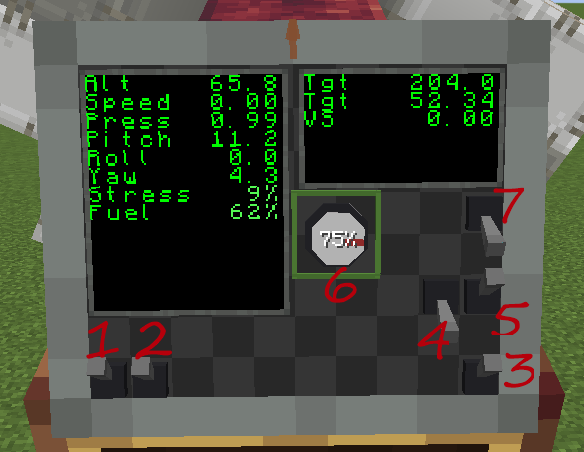
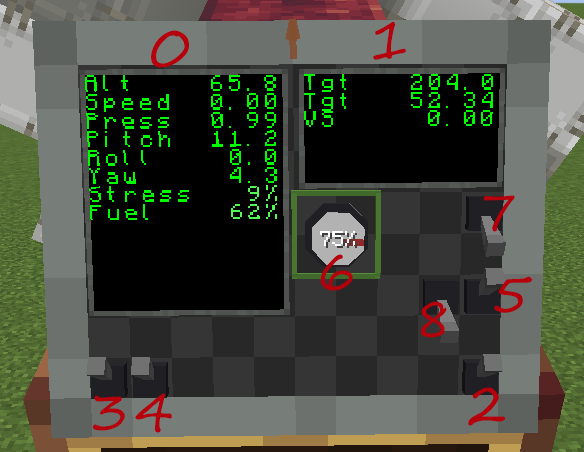
12313

diff --git a/wiki/docs/examples/trainer_aircraft.zh.md b/wiki/docs/examples/trainer_aircraft.zh.md
@@ -1,53 +1,110 @@
 # 示例 - 教练机
 
-[存档](https://github.com/ZombieEggStew/ccnavigationtable-template-1.21.1/blob/1.1.3/.design_guide/trainer%20aircraft.zip)
+> 一个完整的 CCPE 航电应用示例：可驾驶的固定翼教练机，集成了[传感器系统](../sensor-system/overview.zh.md)（静压孔 / 皮托管 / INS / FMC）、[模块化监视器](../monitor/overview.zh.md)（开关 / 旋钮 / 屏幕）、[控制台](../control-desk/overview.zh.md)（操纵杆 / 脚踏板 / 油门）与[航空轴承](../aero-bearing/overview.zh.md)舵面，并带俯仰阻尼、自动滚转、自动油门与高度保持。
 
-## 需求mod
+## [> 存档下载 <](https://github.com/ZombieEggStew/ccnavigationtable-template-1.21.1/blob/1.1.3/.design_guide/trainer%20aircraft.zip)
+
+
+
+## 需求 mod
+
 - CC:Tweaked
 - Create
 - Sable
 - Create: Aeronautics
 - Create: Diesel Generators
+- CCPE（本模组）
 
+自带控制程序：`trainer aircraft\computercraft\computer\0\startup.lua`（随存档放置，开机自动运行）。
 
-自带控制程序：trainer aircraft\computercraft\computer\0\startup.lua
+## 飞机设计要点
 
-控制面板如下图所示，图中：
+这架教练机的一切设计都围绕**简化**展开：
 
-- 1：屏幕开关
-- 2：航行灯开关
-- 3：引擎开关
-- 4：升降舵阻尼模式开关
-- 5：自动滚转模式开关
-- 6：高度设定旋钮
-- 7：自动油门模式开关
+- **简化传动**：飞机主体是一个**长棍子**，沿直线传递应力
+- **简化气动**：通过配平让**推力线过重心、升力中心与重心重合**——加减油门不产生俯仰力矩、平飞净力矩 ≈ 0，控制逻辑简单且行为可预测（游戏气动模型详见[飞行管理计算机](../sensor-system/fmc.zh.md)）。
+- **简化操纵**：全机只有**升降舵（俯仰）与副翼（滚转）两组舵面，没有方向舵**——偏航靠差速 / 侧滑即可，Lua 只需控制两个轴。
 
-左侧屏幕从上到下依次为：
-
-- Alt： 当前高度
-- Speed： 当前速度
-- Pitch： 俯仰角
-- Roll： 滚转角
-- Yaw： 偏航角
-- Stress: 已使用应力百分比
-- Fuel: 剩余燃料百分比
-
-右侧屏幕从上到下依次为：
-
-- Tgt：由高度设定旋钮设定的目标高度
-- Tgt：保持在目标高度需要的速度
-- VS：垂直速度
+## 控制面板
 
 ![monitor](../img/monitor_3.png)
 
+
+各控件对应的监视器**模块 ID**（供 Lua 脚本 `monitor.getModule(id)` 引用）：
+
+| 控件 | 模块 ID | 说明 |
+|---|---|---|
+| 屏幕（左） | 0 | 主飞行数据显示 |
+| 屏幕（右） | 1 | 高度保持数据显示 |
+| 引擎开关 | 2 | 控制发动机运转 / 停止 |
+| 屏幕开关 | 3 | 显示 / 隐藏屏幕 |
+| 航行灯开关 | 4 | 三色航行灯 |
+| 自动滚转开关 | 5 | 松杆自动改平（PD） |
+| 高度设定旋钮 | 6 | 目标高度（见下） |
+| 自动油门开关 | 7 | 空速保持 + 高度保持 |
+| 升降舵阻尼开关 | 8 | 俯仰人工阻尼（抑制 phugoid） |
+
+## 屏幕显示
+
+左侧屏幕（模块 ID 0）从上到下：
+
+- Alt：当前高度（m）
+- Speed：当前速度（m/s）
+- Press：当前气压
+- Pitch：俯仰角（°）——屏幕显示**抬头为正**（与 API 原始读数符号相反）
+- Roll：滚转角（°）
+- Yaw：偏航角（°）
+- Stress：已使用应力百分比
+- Fuel：剩余燃料百分比
+
+右侧屏幕（模块 ID 1）从上到下：
+
+- Tgt：目标高度（高度旋钮设定）
+- Tgt：维持该高度所需的空速（由"升力 = 重力"反解）
+- VS：垂直速度（m/s，正 = 上升）
+
 ## 操作说明
+
 1. 手持 Diesel Generators 模组的燃料桶，右键起落架之间的流体端口，为飞机加满燃料
 2. 坐上坐垫
 3. 打开引擎开关
-4. 按住空格，将油门推到1档，进入缓慢滑行状态（按住Ctrl减少油门）
-5. 按Q或者E踩踏板，控制前轮转向，控制飞机进入合适的滑行道
+4. 按住空格，将油门推到 1 档，进入缓慢滑行状态（按住 Ctrl 减少油门）
+5. 按 Q 或 E 踩踏板，控制前轮转向，将飞机滑入合适的滑行道
 6. 按住空格推满油门起飞
-7. 高度升至300m左右时点按W，防止爬升过高
-8. 转动高度设定旋钮（准心对准旋钮按住鼠标右键，围绕旋钮移动鼠标），设定目标高度
-9. 打开自动油门模式开关，飞机将自动控制油门，保持在目标高度
+7. 高度升至 300 m 左右时点按 W，防止爬升过高
+8. 转动高度设定旋钮（准心对准旋钮按住鼠标右键，围绕旋钮移动鼠标），设定目标高度（0% ≈ 70 m，100% ≈ 该机在最大转速下的最高稳态高度，约 250 m）
+9. 打开自动油门模式开关，飞机将自动控制油门并保持在目标高度
 
+!!! tip "辅助稳定"
+    建议打开**自动滚转**开关：用于在松杆时把滚转角拉回水平。不会干扰手动操纵——摇杆X轴输入时，自动滚转开关会被自动关闭。
+
+## 自动驾驶功能（startup.lua）
+
+### 俯仰人工阻尼
+
+把俯仰角速率反馈到升降舵指令（`PITCH_DAMP_GAIN = 0.5`），抑制长周期俯仰振荡（phugoid）。
+
+### 自动滚转
+
+松杆且滚转角超出死区时，按「滚转角比例 + 滚转速率阻尼」输出副翼（`ROLL_KP = -0.5`、`ROLL_KD = -0.5`），把飞机改平。
+
+### 自动油门 + 高度保持
+
+分三步闭环：
+
+1. **转速前馈**：目标高度 → 反解所需气压 → 由"升力 = 重力"反解所需空速 → 由升力面阻力 + 通用阻力反解螺旋桨转速（`getPropellerRPM`，θ = 90°）。
+2. **空速 PI 修正**：用皮托管空速误差修正油门（`AIRSPEED_KP = 0.002`、`AIRSPEED_KI = 0.001`），消除模型与风 / 质量漂移。
+3. **高度保持**：外环 高度差 → 目标垂直速度（`ALT_HOLD_KP_VS = 0.3`，限幅 ±5 m/s），内环 垂速误差 → 升降舵（`ALT_HOLD_KP_PITCH = 1.0`，限幅 ±15°）。
+
+## 飞行小贴士
+
+- **低空满油门松手会自动抬头爬升**：升力 ∝ 气压 × 空速——低空气压大、同样空速升力过剩 → 爬升；高空气压小、需要更快空速才够升力。想稳定巡航就用**高度旋钮 + 自动油门**；手动飞时低空收一点油、高空给满油。
+- **长周期振荡（phugoid）**：松杆后机身会以约 16 s 周期缓慢上下起伏，属正常气动行为（静稳定改出 + 惯性过冲），开**升降舵阻尼**即可收敛。
+- **舵面高频抖动**：若升降舵 / 副翼出现高频抖动，把 `PITCH_DAMP_GAIN` 调回 0.5 以下，或降低 `ALT_HOLD_KP_PITCH` / `ALT_HOLD_KP_VS`。
+
+## 相关页面
+
+- [传感器系统](../sensor-system/overview.zh.md) — 静压孔 / 皮托管 / INS / FMC / AIC
+- [航空轴承](../aero-bearing/overview.zh.md) — Lua 控制模式舵面
+- [模块化监视器](../monitor/overview.zh.md) — 开关 / 旋钮 / 屏幕模块
+- [控制台](../control-desk/overview.zh.md) — 操纵杆 / 脚踏板 / 油门

diff --git a/wiki/docs/examples/trainer_aircraft.md b/wiki/docs/examples/trainer_aircraft.md
@@ -1,0 +1,107 @@
+# Example - Trainer Aircraft
+
+> A complete CCPE avionics example: a flyable fixed-wing trainer aircraft that integrates the [Sensor System](../sensor-system/overview.md) (static port / pitot tube / INS / FMC), the [Modular Monitor](../monitor/overview.md) (switch / knob / screen), the [Control Desk](../control-desk/overview.md) (joystick / pedal / throttle) and [Aero Bearing](../aero-bearing/overview.md) control surfaces — with pitch damping, auto-roll, auto-throttle and altitude hold.
+
+## [> Download Save <](https://github.com/ZombieEggStew/ccnavigationtable-template-1.21.1/blob/1.1.3/.design_guide/trainer%20aircraft.zip)
+
+## Required Mods
+
+- CC:Tweaked
+- Create
+- Sable
+- Create: Aeronautics
+- Create: Diesel Generators
+- CCPE (this mod)
+
+Comes with its own control program: `trainer aircraft\computercraft\computer\0\startup.lua` (included in the save, runs automatically on boot).
+
+## Design Overview
+
+Everything about this trainer is built around **simplification**:
+
+- **Simplified drive** — the fuselage is one **long stick**, transferring stress in a **straight line**.
+- **Simplified aero** — trimmed so the **thrust line passes through the center of mass and the lift center coincides with it** — throttle changes produce no pitch moment and level-flight net moment ≈ 0, keeping the control logic simple and predictable (see the [Flight Management Computer](../sensor-system/fmc.md) for the game's aero model).
+- **Simplified controls** — only **elevator (pitch) and ailerons (roll)** as control surfaces, **no rudder** — yaw comes from differential thrust / sideslip, so Lua only needs to control two axes.
+
+## Control Panel
+
+![monitor](../img/monitor_3.png)
+
+Monitor **module IDs** for each control (used with `monitor.getModule(id)` in Lua):
+
+| Control | Module ID | Description |
+|---|---|---|
+| Screen (left) | 0 | Main flight data display |
+| Screen (right) | 1 | Altitude-hold data display |
+| Engine switch | 2 | Engine on / off |
+| Screen switch | 3 | Show / hide screens |
+| Navigation light switch | 4 | Three-color navigation lights |
+| Auto-roll switch | 5 | Wings-level hold when hands off (PD) |
+| Altitude knob | 6 | Target altitude (see below) |
+| Auto-throttle switch | 7 | Airspeed hold + altitude hold |
+| Pitch-damping switch | 8 | Artificial pitch damping (suppresses phugoid) |
+
+## Screen Display
+
+Left screen (module ID 0), top to bottom:
+
+- Alt: current altitude (m)
+- Speed: current speed (m/s)
+- Press: current pressure
+- Pitch: pitch angle (°) — screen shows **nose-up as positive** (opposite sign of the raw API reading)
+- Roll: roll angle (°)
+- Yaw: yaw angle (°)
+- Stress: stress used, percent
+- Fuel: fuel remaining, percent
+
+Right screen (module ID 1), top to bottom:
+
+- Tgt: target altitude (set by the altitude knob)
+- Tgt: airspeed needed to hold that altitude (solved from "lift = gravity")
+- VS: vertical speed (m/s, positive = climbing)
+
+## Flight Operations
+
+1. Hold a Diesel Generators fuel can, right-click the fluid port between the landing gear to fill the aircraft with fuel
+2. Sit on the seat
+3. Flip the engine switch on
+4. Hold Space to push the throttle to gear 1 for slow taxiing (hold Ctrl to reduce throttle)
+5. Press Q or E to work the pedals, steering the nose wheel to taxi onto a suitable taxiway
+6. Hold Space to push the throttle to full and take off
+7. Around 300 m, tap W to keep from climbing too high
+8. Turn the altitude knob (aim at the knob, hold right mouse button and move the mouse around it) to set the target altitude (0% ≈ 70 m, 100% ≈ the aircraft's maximum steady-state altitude at max RPM, about 250 m)
+9. Flip the auto-throttle switch on — the aircraft automatically controls the throttle and holds the target altitude
+
+!!! tip "Wings-level helper"
+    Turn on the **auto-roll** switch to level the wings whenever you let go of the stick. It never fights manual control — any joystick X-axis input automatically switches auto-roll off.
+
+## Autopilot Functions (startup.lua)
+
+### Artificial Pitch Damping
+
+Feeds the pitch rate back into the elevator command (`PITCH_DAMP_GAIN = 0.5`) to suppress the long-period pitch oscillation (phugoid).
+
+### Auto-Roll
+
+With hands off the stick and roll outside the deadband, drives the ailerons from "roll angle proportional + roll-rate damping" (`ROLL_KP = -0.5`, `ROLL_KD = -0.5`) to level the aircraft.
+
+### Auto-Throttle + Altitude Hold
+
+A three-step closed loop:
+
+1. **RPM feedforward** — target altitude → required pressure → required airspeed from "lift = gravity" → propeller RPM from lift-surface drag + universal drag (`getPropellerRPM`, θ = 90°).
+2. **Airspeed PI correction** — corrects the throttle from the pitot airspeed error (`AIRSPEED_KP = 0.002`, `AIRSPEED_KI = 0.001`), eliminating model / wind / mass drift.
+3. **Altitude hold** — outer loop altitude error → target vertical speed (`ALT_HOLD_KP_VS = 0.3`, clamped ±5 m/s), inner loop vertical-speed error → elevator (`ALT_HOLD_KP_PITCH = 1.0`, clamped ±15°).
+
+## Flight Tips
+
+- **Hands-off full throttle at low altitude pitches up by itself**: lift ∝ pressure × airspeed — at low altitude pressure is high, so the same airspeed produces excess lift → climb; at high altitude pressure is low, so more airspeed is needed for lift. For stable cruise use the **altitude knob + auto-throttle**; when flying manually, pull the throttle back a bit low and go full throttle high.
+- **Long-period oscillation (phugoid)**: after letting go, the aircraft slowly bobs up and down at ~16 s per cycle — normal aero behaviour (static-stability recovery + inertia overshoot); **pitch damping** settles it.
+- **Control-surface chatter**: if the elevator / ailerons chatter at high frequency, lower `PITCH_DAMP_GAIN` below 0.5, or reduce `ALT_HOLD_KP_PITCH` / `ALT_HOLD_KP_VS`.
+
+## Related Pages
+
+- [Sensor System](../sensor-system/overview.md) — static port / pitot tube / INS / FMC / AIC
+- [Aero Bearing](../aero-bearing/overview.md) — Lua-control control surfaces
+- [Modular Monitor](../monitor/overview.md) — switch / knob / screen modules
+- [Control Desk](../control-desk/overview.md) — joystick / pedal / throttle
